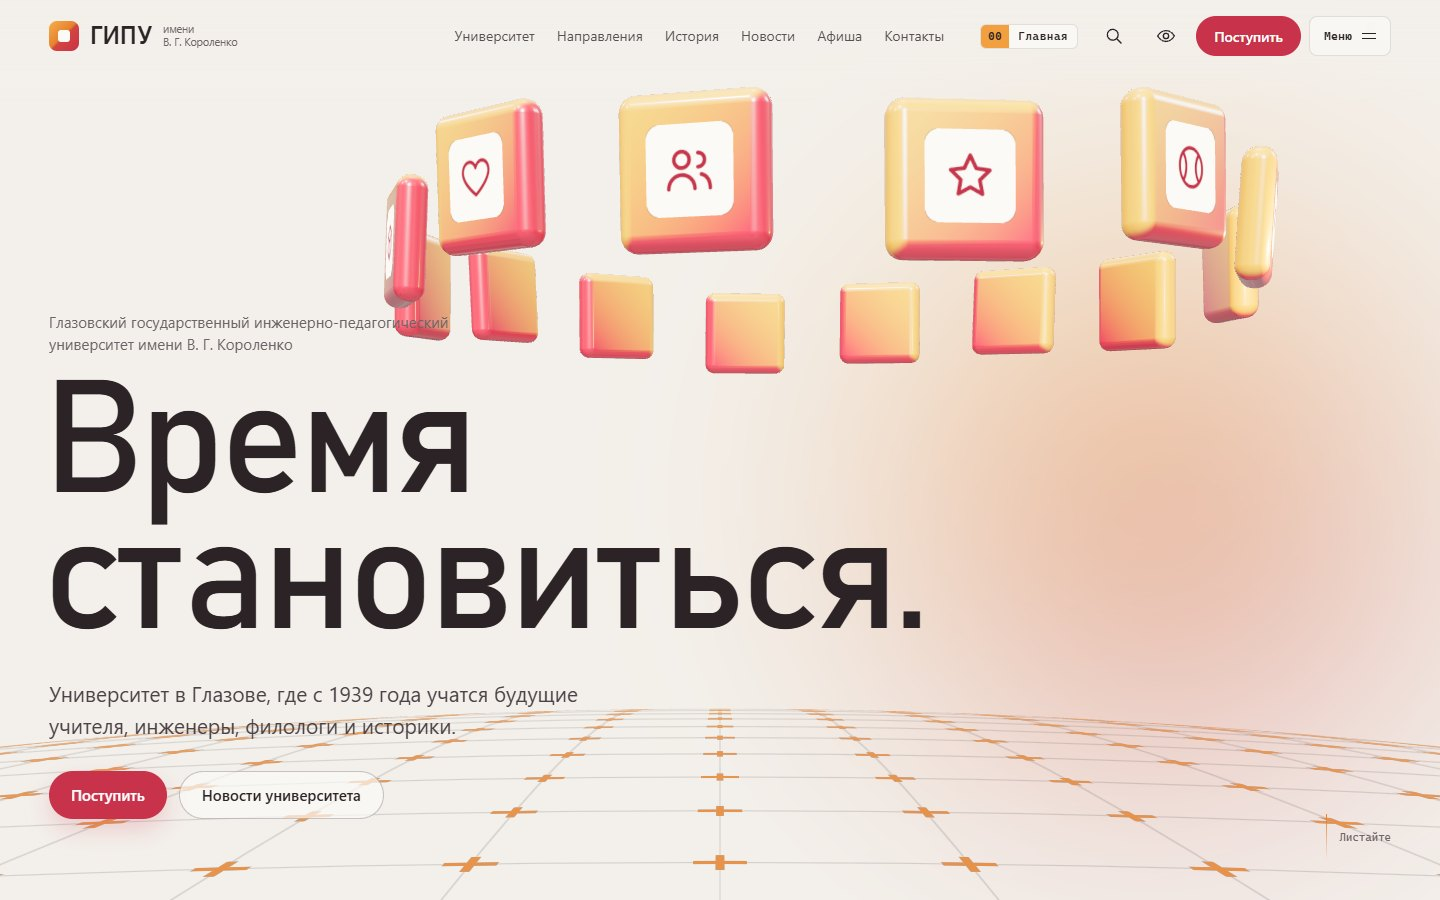
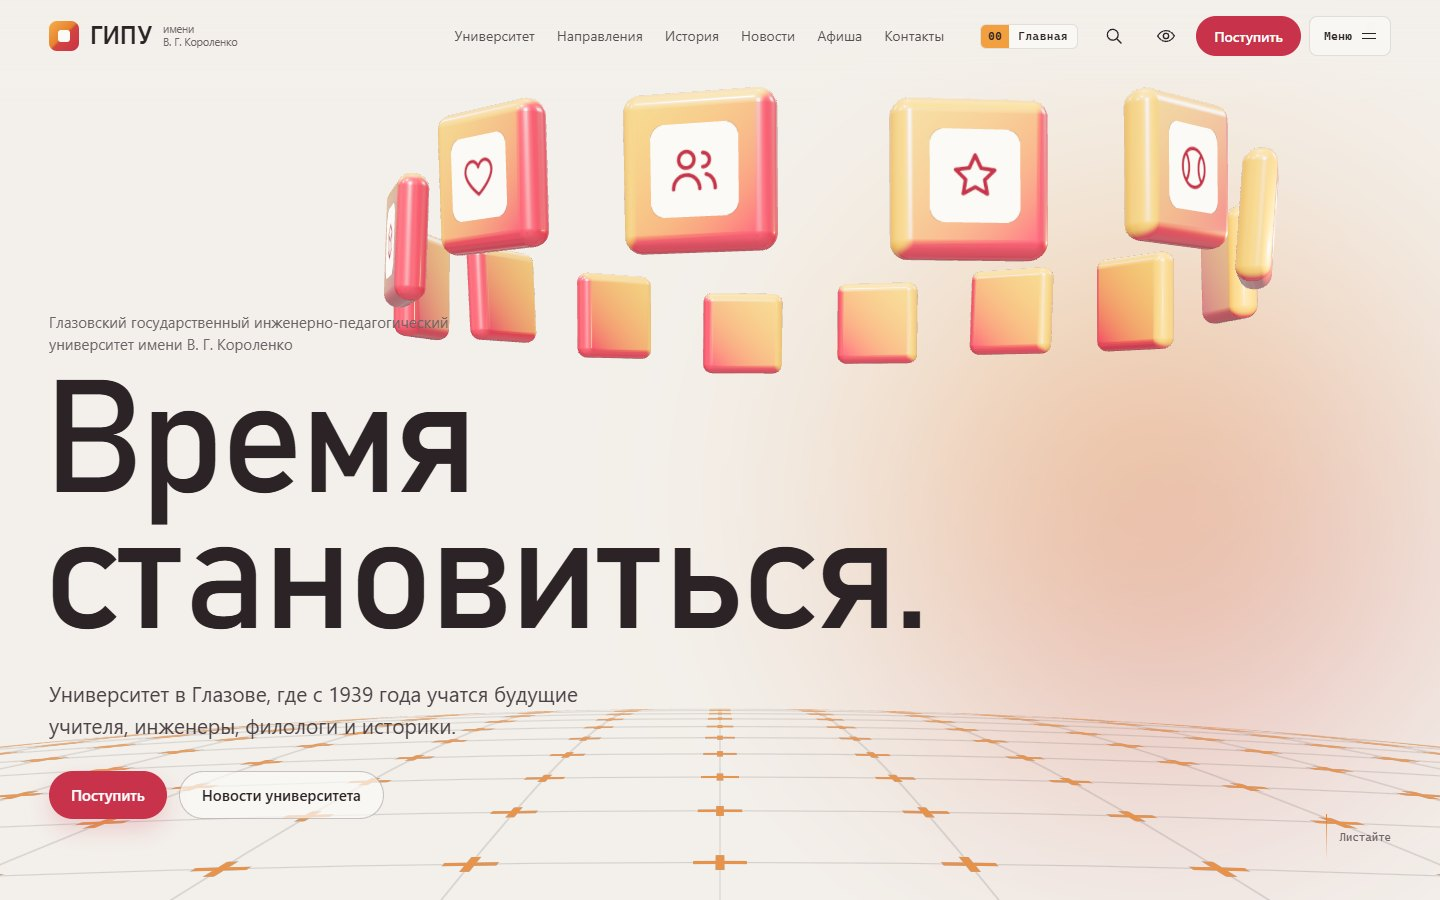
Портфолио: без радуги, убран кадр разборки из карточки работ

diff --git a/style.css b/style.css
@@ -26,7 +26,7 @@ main > section { padding: 120px var(--gr) 0 var(--gl); max-width: 1360px; margin
 .btn { display: inline-flex; align-items: center; min-height: 52px; padding: 0 26px; border-radius: 999px; font: 500 16px var(--f); text-decoration: none; border: 1px solid transparent; cursor: pointer; transition: background .3s, color .3s, transform .2s, border-color .3s; }
 .btn--main { background: var(--ink); color: var(--on-ink); }
 .btn--line { border-color: var(--ink); }
-@media (hover: hover) { .btn--main:hover { background: var(--rainbow); color: var(--ink); } .btn--line:hover { background: var(--ink); color: var(--on-ink); } }
+@media (hover: hover) { .btn--main:hover { background: #22324D; color: var(--on-ink); } .btn--line:hover { background: var(--ink); color: var(--on-ink); } }
 .btn:active { transform: scale(.98); }
 
 /* прелоадер */
@@ -34,10 +34,10 @@ main > section { padding: 120px var(--gr) 0 var(--gl); max-width: 1360px; margin
 html.js .pre.is-on { display: block; }
 .pre__name { position: absolute; left: var(--gl); top: 28px; font: 500 14px var(--mono); opacity: .6; }
 .pre__num { position: absolute; right: var(--gr); bottom: 6px; font: 700 clamp(110px, 24vw, 340px)/.8 var(--f); letter-spacing: -.07em; font-variant-numeric: tabular-nums;
-  background: var(--rainbow); -webkit-background-clip: text; background-clip: text; color: transparent; }
+  color: var(--on-ink); }
 
 /* радужная шторка */
-.wipe { position: fixed; inset: 0; z-index: 90; background: var(--rainbow); transform: translateY(101%); pointer-events: none; }
+.wipe { position: fixed; inset: 0; z-index: 90; background: var(--ink); transform: translateY(101%); pointer-events: none; }
 .wipe.is-cover { transform: none; }
 
 /* шапка */
@@ -98,7 +98,7 @@ html.js .pre.is-on { display: block; }
 .acc__go { align-self: flex-start; }
 .acc__item.is-open .acc__body { grid-template-rows: 1fr; }
 .acc__item.is-open .acc__t { transform: translateX(10px); }
-.acc__item.is-open .acc__n { background: linear-gradient(90deg, hsl(var(--h, 30) 85% 50%), hsl(calc(var(--h, 30) + 80) 85% 50%)); -webkit-background-clip: text; background-clip: text; color: transparent; font-weight: 500; }
+.acc__item.is-open .acc__n { color: var(--ink); font-weight: 500; }
 
 /* телефон */
 .phone-sec { display: grid; grid-template-columns: 1fr auto; gap: 60px; align-items: center; }
@@ -196,7 +196,7 @@ body { animation: page-in .5s ease both; }
 body.is-leaving { opacity: 0; transition: opacity .3s ease; }
 
 /* карточка работ */
-.dial { position: relative; height: 420vh; max-width: none !important; padding-left: 0 !important; padding-right: 0 !important; }
+.dial { position: relative; height: 330vh; max-width: none !important; padding-left: 0 !important; padding-right: 0 !important; }
 .dial__sticky { position: sticky; top: 0; height: 100svh; display: grid; grid-template-rows: auto 1fr auto auto; gap: 14px;
   padding: 84px var(--gr) 26px var(--gl); max-width: 1360px; margin: 0 auto; }
 .dial__top { display: flex; justify-content: space-between; align-items: baseline; }
@@ -212,5 +212,5 @@ body.is-leaving { opacity: 0; transition: opacity .3s ease; }
 .dial__names { list-style: none; margin: 0; padding: 0; display: flex; flex-wrap: wrap; gap: 6px; }
 .dial__names button { border: 0; background: none; padding: 6px 10px; border-radius: 999px; font: 400 13px var(--mono); color: var(--muted); cursor: pointer; }
 .dial__names button.is-on { background: var(--ink); color: var(--on-ink); }
-@media (max-width: 900px) { .dial { height: 360vh; } .dial__stage canvas { width: 100%; } }
+@media (max-width: 900px) { .dial { height: 290vh; } .dial__stage canvas { width: 100%; } }
 @media (prefers-reduced-motion: reduce) { .dial { height: auto; } .dial__sticky { position: static; height: auto; } }

diff --git a/app.js b/app.js
@@ -1,5 +1,5 @@
-import { WORKS, STUDIO } from './data.js?v=3';
-import { mountDial } from './dial.js?v=4';
+import { WORKS, STUDIO } from './data.js?v=5';
+import { mountDial } from './dial.js?v=5';
 
 const gsap = window.gsap;
 const reduced = matchMedia('(prefers-reduced-motion: reduce)').matches;
@@ -97,7 +97,7 @@ if (!isCase) {
         const x = p.px + (p.x - p.px) * (i / steps), y = p.py + (p.y - p.py) * (i / steps);
         const hue = (t * 40 + x * 0.15) % 360, r = Math.min(w, h) * 0.12;
         const grd = g.createRadialGradient(x, y, 0, x, y, r);
-        grd.addColorStop(0, `hsla(${hue}, 85%, 60%, 0.12)`); grd.addColorStop(1, `hsla(${hue}, 85%, 60%, 0)`);
+        grd.addColorStop(0, `hsla(${212 + 14 * Math.sin(hue / 57)}, 45%, 56%, 0.10)`); grd.addColorStop(1, `hsla(212, 45%, 56%, 0)`); // спокойный холодный синий, без радуги
         g.fillStyle = grd; g.beginPath(); g.arc(x, y, r, 0, Math.PI * 2); g.fill();
       }
       p.px = p.x; p.py = p.y;
@@ -107,7 +107,7 @@ if (!isCase) {
 
   /* ---------- карточка работ: прокрутка листает кадры ---------- */
   const SL = [
-    { img: './img/tehnika.jpg', id: 'tehnika' }, { img: './img/tehnika-xray.jpg', id: 'tehnika', note: 'разборка на прокрутке' },
+    { img: './img/tehnika.jpg', id: 'tehnika' },
     { img: './img/gipu.jpg', id: 'gipu' }, { img: './img/rkompas.jpg', id: 'rkompas' },
   ].map((x) => ({ ...x, w: WORKS.find((w) => w.id === x.id) }));
   const dialRoot = $('.dial');

diff --git a/index.html b/index.html
@@ -45,7 +45,7 @@
     <!-- карточка работ с переходом как у adamperlis.com: изгиб, смаз, цветное расслоение; листается прокруткой -->
     <section class="dial" id="raboty" aria-labelledby="dial-t">
       <div class="dial__sticky">
-        <div class="dial__top"><h2 id="dial-t">Работы</h2><span class="dial__count">01 / 04</span></div>
+        <div class="dial__top"><h2 id="dial-t">Работы</h2><span class="dial__count">01 / 03</span></div>
         <div class="dial__stage"><canvas aria-hidden="true"></canvas><img class="dial__fallback" alt=""></div>
         <div class="dial__meta"><div><h3 class="dial__name"></h3><p class="dial__niche"></p></div><a class="btn btn--main dial__go" href="#">Открыть кейс</a></div>
         <ol class="dial__names"></ol>
@@ -97,6 +97,6 @@
   <footer class="foot"><span>© 2026 Прототип</span><span>3D-модель в демо «Мастерская на дому»: nikita.bulgakov, CC BY 4.0</span></footer>
 
   <script src="https://cdn.jsdelivr.net/npm/gsap@3.13.0/dist/gsap.min.js"></script>
-  <script type="module" src="./app.js?v=4"></script>
+  <script type="module" src="./app.js?v=6"></script>
 </body>
 </html>

diff --git a/dial.js b/dial.js
@@ -41,7 +41,7 @@ void main() {
   // радужная кромка на краях во время перехода
   float edge = smoothstep(.0, .06, min(min(uv.x, 1. - uv.x), min(uv.y, 1. - uv.y)));
   vec3 rainbow = .5 + .5 * cos(6.2831 * (uv.y * .8 + uT + vec3(0., .33, .67)));
-  col = mix(col, rainbow, (1. - edge) * k * .4);
+  col = mix(col, rainbow, (1. - edge) * k * 0.); // радужную кромку убрали — остаётся только цветное расслоение, как в оригинале
   float mask = box(uv);
   gl_FragColor = vec4(col * mask, mask * max(al, .0));
 }`;

diff --git a/case.html b/case.html
@@ -65,6 +65,6 @@
   </main>
   <footer class="foot"><span>© 2026 Прототип</span><span data-credit></span></footer>
   <script src="https://cdn.jsdelivr.net/npm/gsap@3.13.0/dist/gsap.min.js"></script>
-  <script type="module" src="./app.js?v=4"></script>
+  <script type="module" src="./app.js?v=6"></script>
 </body>
 </html>
